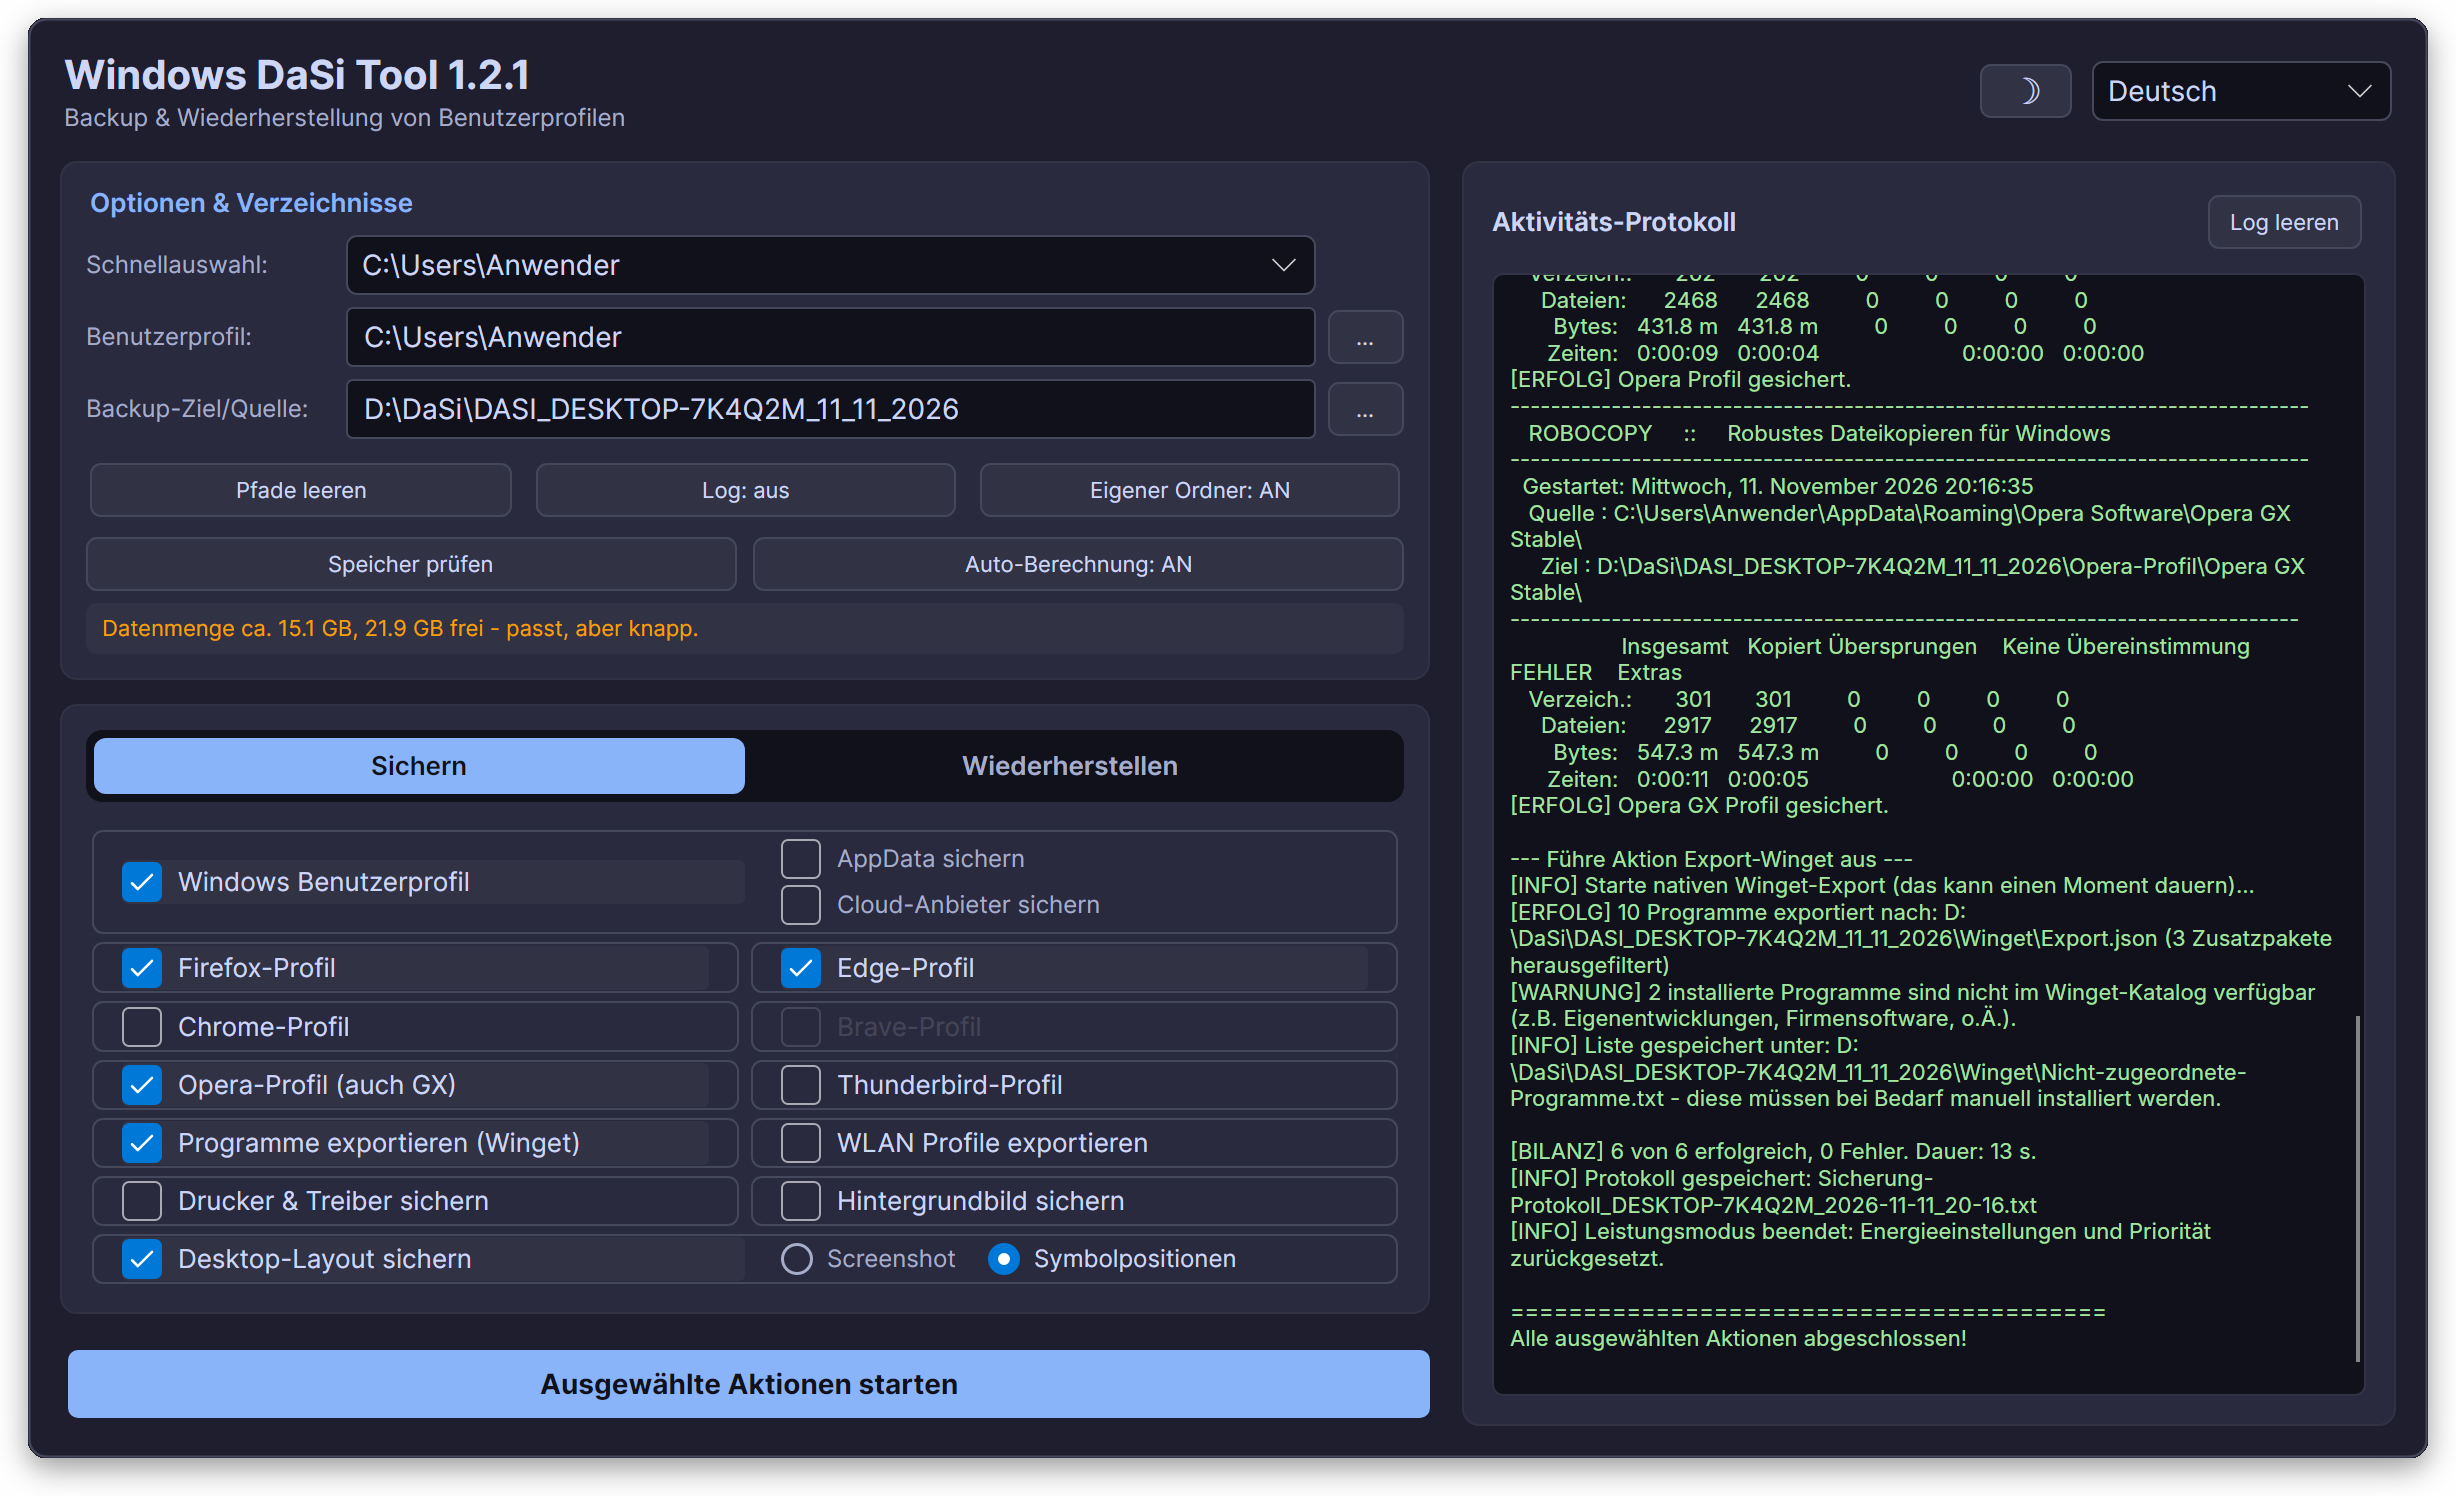
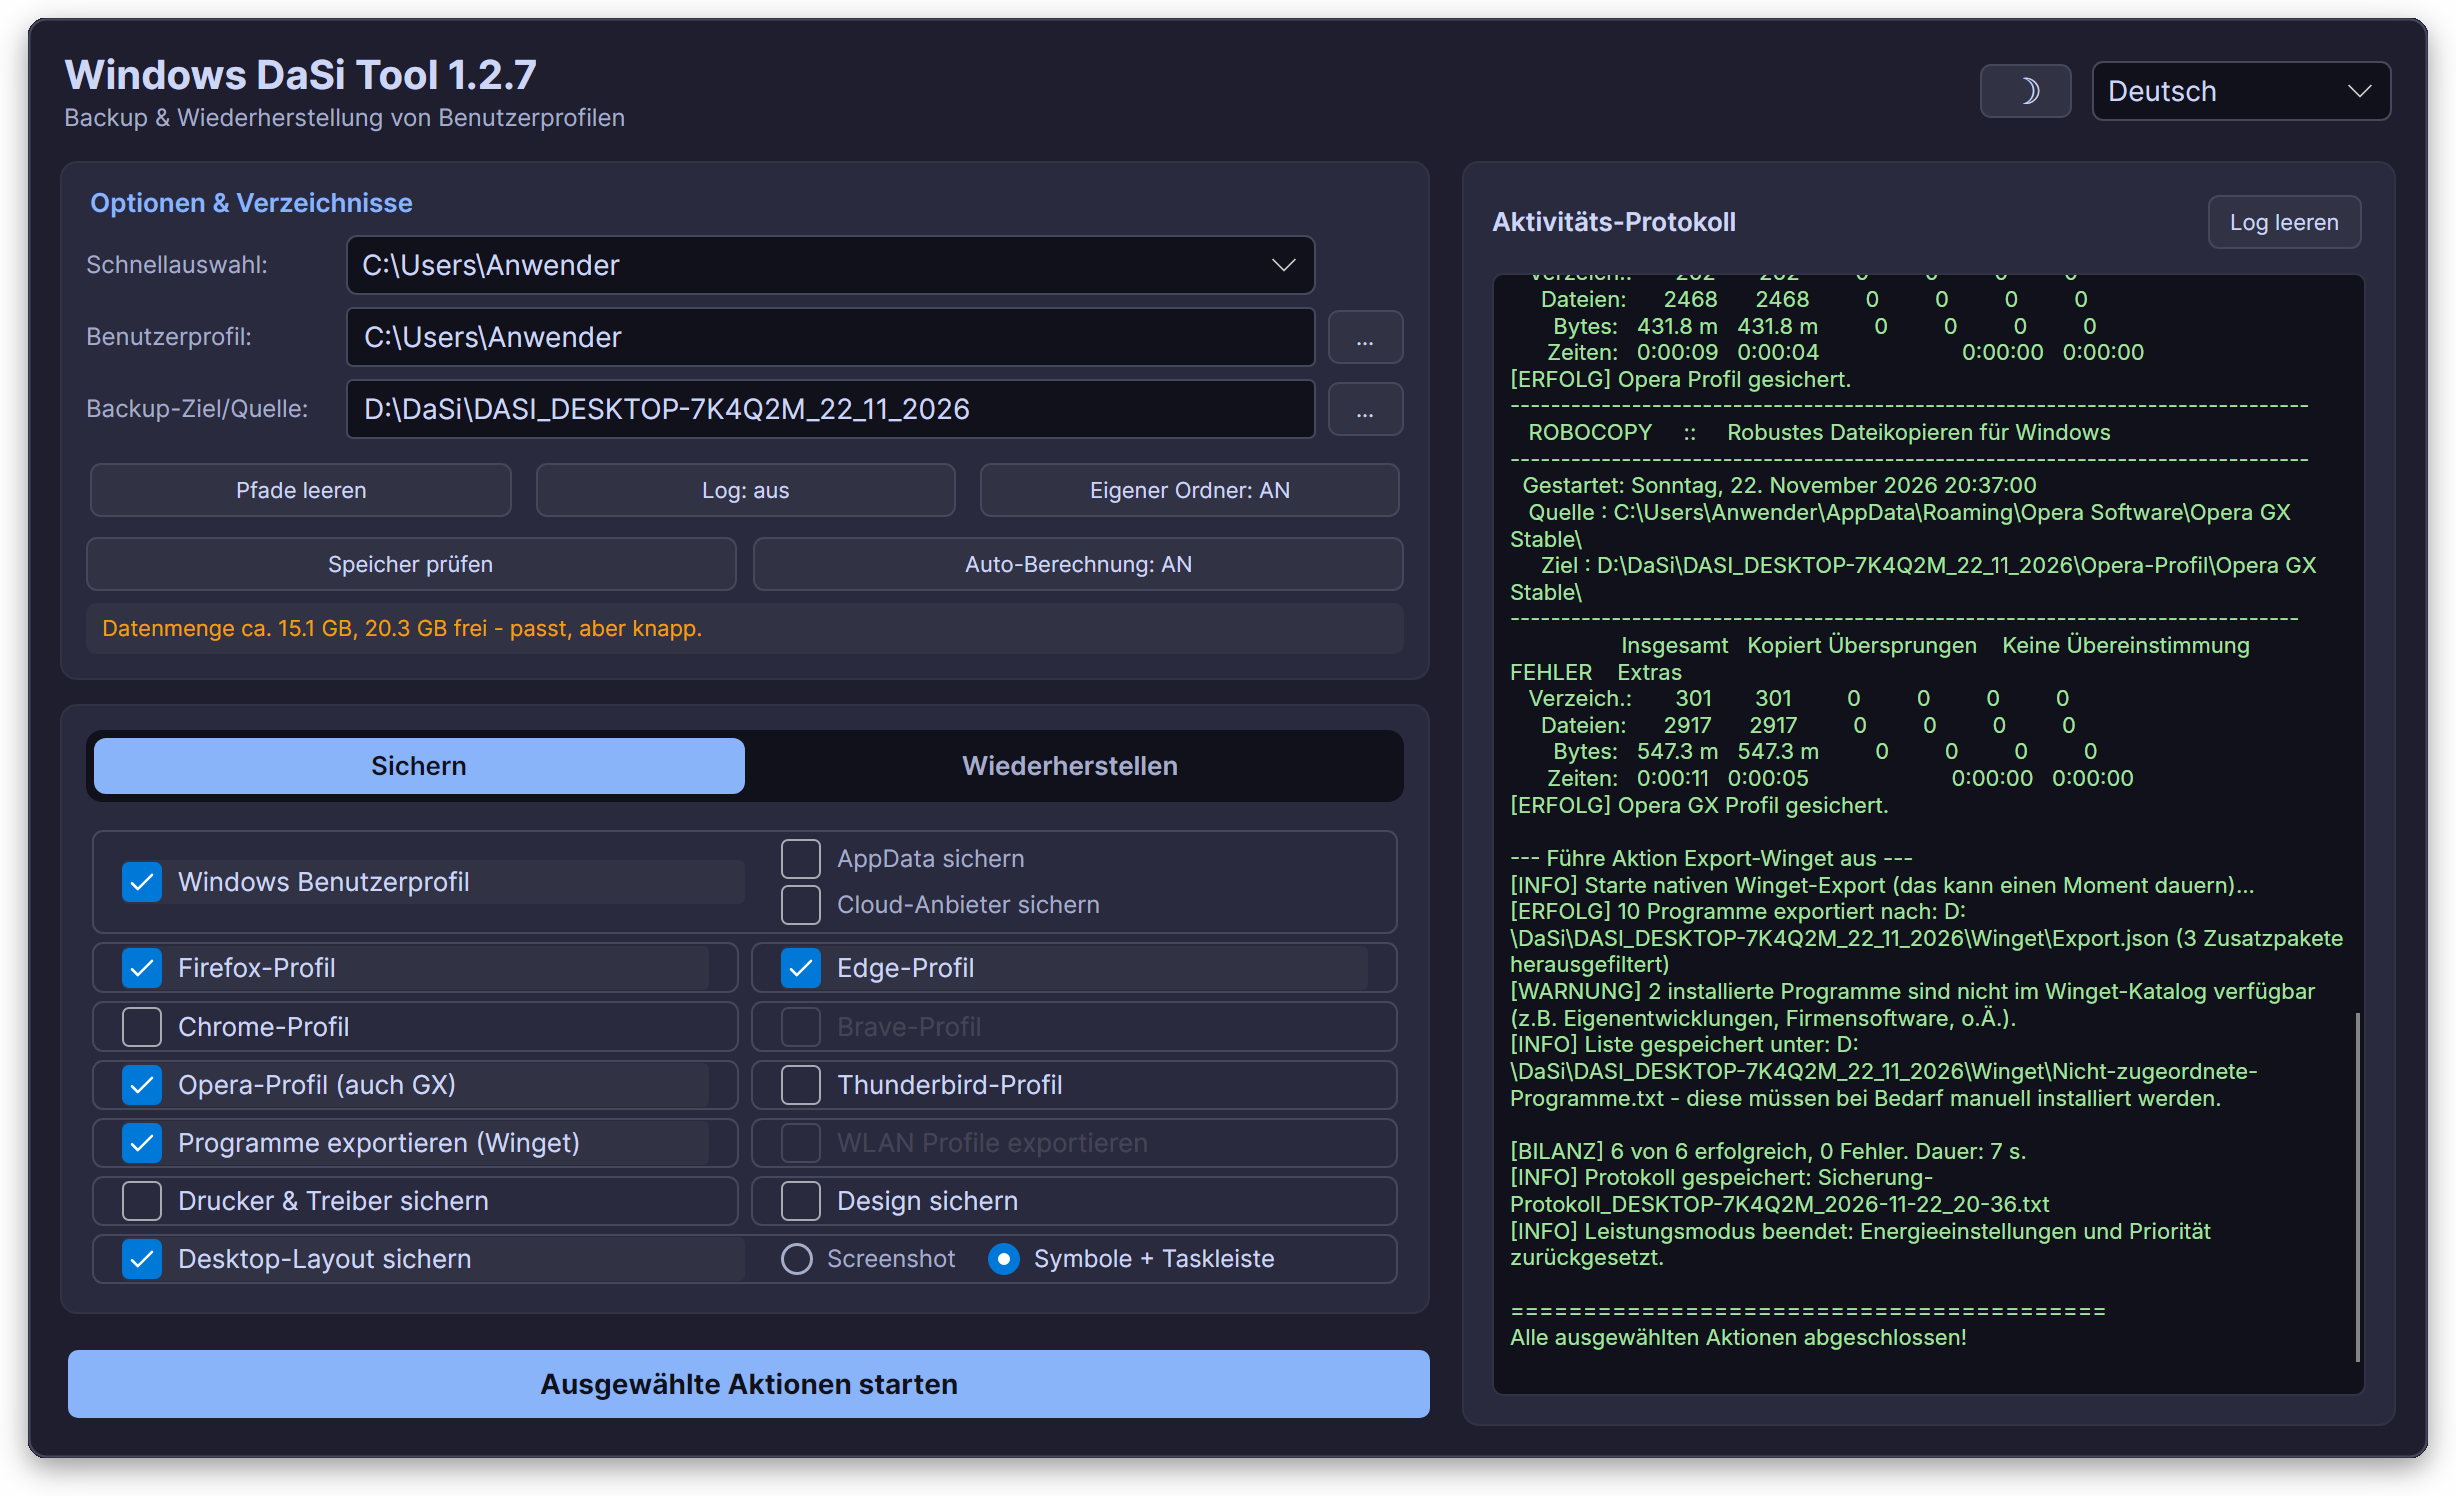
Version 1.2.7, neue README-Bilder, Log-Knopf auf Englisch
- Version 1.2.7 in Projekt, Manifest, Oberfläche und README; CHANGELOG
  mit Datum und Link.
- Der Log-Knopf zeigte in englischer Umgebung "Log: aus", bis die
  Sprache einmal gewechselt wurde. Jetzt stimmt er von Anfang an, mit
  Prüfung in der GUI.
- Alle README-Bilder neu aufgenommen: Version 1.2.7, "Design sichern",
  "Symbole + Taskleiste".
- docs/VEROEFFENTLICHEN.md nennt die neuen Prüfprojekte und das
  Abdeckungswerkzeug.

Claude-Session: https://claude.ai/code/session_0196PaXCKSmKiwGSNr3Nwqvz

diff --git a/ViewModels/MainWindowViewModel.cs b/ViewModels/MainWindowViewModel.cs
@@ -18,7 +18,7 @@ namespace WindowsDaSiTool.ViewModels;
 public partial class MainWindowViewModel : ObservableObject
 {
     // ---- Konstanten (entsprechen den $script:-Variablen) ----
-    private const string VersionString = "1.2.6";
+    private const string VersionString = "1.2.7";
 
     private readonly CancellationTokenState _cancel = new();
     private readonly ProcessRunner _runner;
@@ -633,6 +633,9 @@ public partial class MainWindowViewModel : ObservableObject
         _isEnglish = lang == "en";
         _selectedLanguageIndex = _isEnglish ? 1 : 0;
         Localizer.I.Lang = _isEnglish ? AppLang.En : AppLang.De;
+        // Frueher blieb hier "Log: aus" stehen - auch in englischer Umgebung,
+        // bis die Sprache einmal gewechselt wurde.
+        _loggingLabel = Tr("Log: aus", "Log: off");
 
         // Hell-/Dunkelmodus aus Windows uebernehmen.
         _isLightTheme = SystemHelpers.IsWindowsLightTheme();

diff --git a/tests/DaSiGuiTests/Program.cs b/tests/DaSiGuiTests/Program.cs
@@ -617,6 +617,7 @@ internal static class Program
             Check("Windows englisch -> Englisch", SystemHelpers.GetWindowsLanguage() == "en");
             var englisch = new MainWindowViewModel();
             Check("neues Fenster in englischer Umgebung startet englisch", englisch.IsEnglish && englisch.SelectedLanguageIndex == 1 && englisch.LogText.Contains("Waiting for input"));
+            Check("englisch von Anfang an: auch der Log-Knopf", englisch.LoggingLabel == "Log: off", englisch.LoggingLabel);
             englisch.IsEnglish = false;
             CultureInfo.CurrentUICulture = new CultureInfo("de-DE");
             Check("Windows deutsch -> Deutsch", SystemHelpers.GetWindowsLanguage() == "de");

diff --git a/README.md b/README.md
@@ -6,7 +6,7 @@
 
 **Datensicherung und Wiederherstellung von Windows-Benutzerprofilen — portabel, schnell, ohne Installation.**
 
-[![Version](https://img.shields.io/badge/Version-1.2.6-blue)](https://github.com/Tinnitus97/Windows.DaSi.Tool/releases)
+[![Version](https://img.shields.io/badge/Version-1.2.7-blue)](https://github.com/Tinnitus97/Windows.DaSi.Tool/releases)
 [![Platform](https://img.shields.io/badge/Windows-10%20%7C%2011-0078D4)](https://github.com/Tinnitus97/Windows.DaSi.Tool)
 [![.NET](https://img.shields.io/badge/.NET-10%20LTS-512BD4)](https://dotnet.microsoft.com/download/dotnet/10.0)
 [![License](https://img.shields.io/badge/Lizenz-MIT-green)](LICENSE)
@@ -228,7 +228,7 @@ denen unter *Einstellungen → Anzeige → Identifizieren* überein. Beim
 Nachsehen und Anordnen von Hand.
 
 Beim Wiederherstellen ist nur wählbar, was in der Sicherung liegt: Enthält sie nur
-Symbolpositionen, ist *Screenshot* ausgegraut und umgekehrt.
+Symbole und Taskleiste, ist *Screenshot* ausgegraut und umgekehrt.
 
 > Beides betrifft den Desktop, der gerade zu sehen ist. Ist ein anderer Benutzer
 > angemeldet als der, dessen Profil gewählt ist — etwa der Techniker —, tut das Tool

diff --git a/CHANGELOG.md b/CHANGELOG.md
@@ -7,7 +7,7 @@ die Versionierung folgt [Semantic Versioning](https://semver.org/lang/de/).
 
 ---
 
-## [Unveröffentlicht]
+## [1.2.7] - 2026-11-22
 
 ### Neu
 
@@ -64,6 +64,11 @@ die Versionierung folgt [Semantic Versioning](https://semver.org/lang/de/).
   sich einspielen lassen. Bisher scheiterte `netsh wlan` erst während des Laufs.
 
 ### Behoben
+
+- **„Log: aus“ in englischer Umgebung.** Startete das Tool auf einem englischen
+  Windows, stand auf dem Knopf für das ausführliche Protokoll „Log: aus“ statt
+  „Log: off“ – bis die Sprache einmal gewechselt wurde. Aufgefallen beim
+  Aufnehmen der README-Bilder.
 
 - **Drucker wiederherstellen meldete Erfolg, obwohl PrintBrm scheiterte.**
   PrintBrm endet auch bei manchem Fehlschlag mit dem Rückgabewert 0 – etwa bei
@@ -727,6 +732,7 @@ PowerShell/WPF-Skripts als native C#-Anwendung mit Avalonia.
 
 ---
 
+[1.2.7]: https://github.com/Tinnitus97/Windows.DaSi.Tool/releases/tag/1.2.7
 [1.2.6]: https://github.com/Tinnitus97/Windows.DaSi.Tool/releases/tag/1.2.6
 [1.2.5]: https://github.com/Tinnitus97/Windows.DaSi.Tool/releases/tag/1.2.5
 [1.2.1]: https://github.com/Tinnitus97/Windows.DaSi.Tool/releases/tag/1.2.1

diff --git a/docs/VEROEFFENTLICHEN.md b/docs/VEROEFFENTLICHEN.md
@@ -100,7 +100,11 @@ Services/  ViewModels/  Views/
 Assets/app.ico
 
 tools/write-update-json.py    schreibt update.json fort
-tests/DaSiTests/              Prüfungen ohne Oberfläche
+tools/abdeckung.py            meldet Funktionen ohne Prüfung (CI)
+tests/DaSiTests/              Prüfungen der Dienste
+tests/DaSiGuiTests/           Prüfungen der Oberfläche (ohne Bildschirm)
+tests/WingetAttrappe/         antwortet in den Prüfungen wie winget
+tests/abdeckung-ausnahmen.txt begründete Ausnahmen (derzeit keine)
 update.json                   was das Programm abfragt
 .github/workflows/            Bauen, Prüfen, Veröffentlichen
 ```
